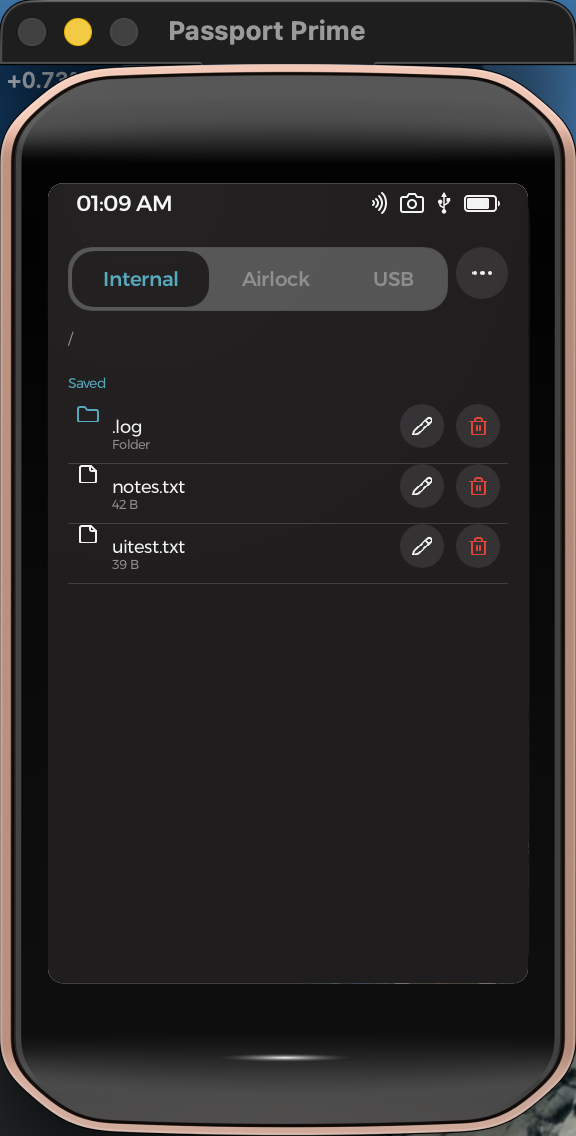
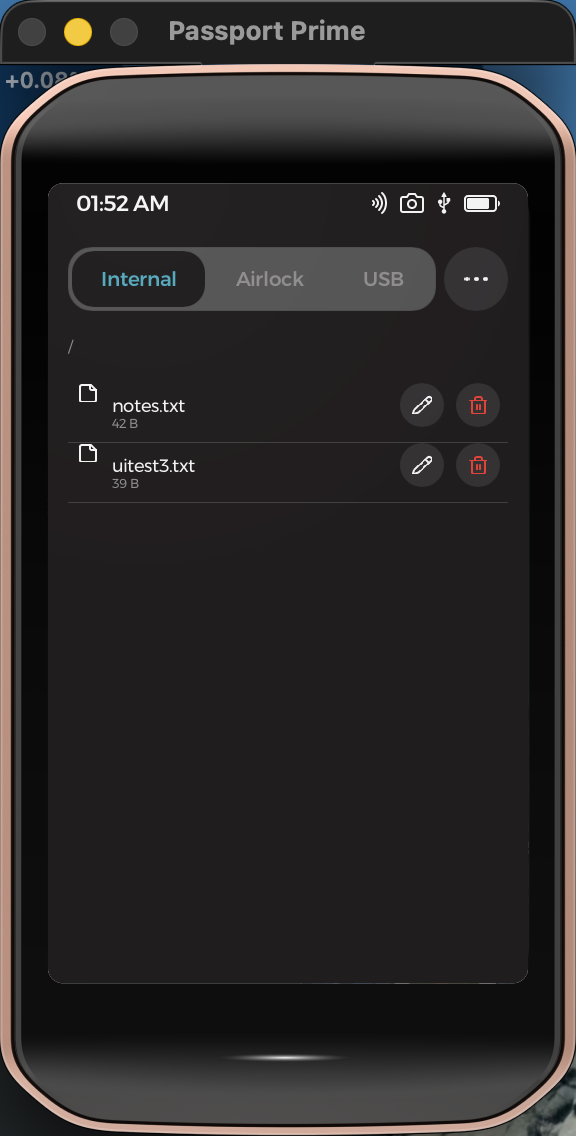
Editor UX: scrollable field, keyboard-aware sizing, Save dismisses keyboard; hidden-files toggle; center kebab
Editor (replaces the SDK TextArea, which clips long content with no scroll):
- Custom EditorField = Flickable + builtin TextInput with cursor-following
  (textedit-base.slint pattern). Fills the screen when unfocused (no gap),
  scrolls long content (drag + cursor-follow), and shrinks when focused so it
  stays above the 396px on-screen keyboard (hard-coded; window never resizes and
  no keyboard-height API exists).
- Save calls editor-field.clear-focus() before save-file() so the keyboard
  closes (blur -> KeyOS hide_keyboard).

Browser:
- ••• menu gains "Show/hide hidden files": State.show_hidden toggles whether
  refresh() lists dot-prefixed entries (hidden by default).
- Kebab sized to the tabs' 64px natural height (md control 56 + 2x4 list padding)
  and centered so it matches the tab bar.

All six verified in the simulator via ../ui-automation. See NOTES.md.

diff --git a/src/main.rs b/src/main.rs
@@ -15,6 +15,7 @@ struct State {
     location: Location,
     path: String,             // current directory, always starts with '/'
     open_path: Option<String>, // full path of the file currently in the editor
+    show_hidden: bool,        // include dot-prefixed entries in the listing
 }
 
 fn app_main(cx: AppContext, ui: AppWindow) {
@@ -29,6 +30,7 @@ fn app_main(cx: AppContext, ui: AppWindow) {
         location: Location::User,
         path: "/".to_string(),
         open_path: None,
+        show_hidden: false,
     }));
 
     // Re-list the current directory and push it into the Browser global.
@@ -38,9 +40,9 @@ fn app_main(cx: AppContext, ui: AppWindow) {
         let ui_weak = ui_weak.clone();
         Rc::new(move || {
             let Some(ui) = ui_weak.upgrade() else { return };
-            let (loc, path) = {
+            let (loc, path, show_hidden) = {
                 let s = state.borrow();
-                (s.location, s.path.clone())
+                (s.location, s.path.clone(), s.show_hidden)
             };
             let browser = ui.global::<Browser>();
 
@@ -51,6 +53,9 @@ fn app_main(cx: AppContext, ui: AppWindow) {
                     match dir.next_entry() {
                         Ok(Some(entry)) => {
                             if entry.name == "." || entry.name == ".." {
+                                continue;
+                            }
+                            if !show_hidden && entry.name.starts_with('.') {
                                 continue;
                             }
                             let info = if entry.is_dir {
@@ -106,6 +111,24 @@ fn app_main(cx: AppContext, ui: AppWindow) {
                 let mut s = state.borrow_mut();
                 s.location = location_for(idx);
                 s.path = "/".to_string();
+            }
+            refresh();
+        });
+    }
+
+    // Toggle showing dot-prefixed (hidden) files/folders.
+    {
+        let state = state.clone();
+        let ui_weak = ui_weak.clone();
+        let refresh = refresh.clone();
+        callbacks.on_toggle_hidden(move || {
+            let now = {
+                let mut s = state.borrow_mut();
+                s.show_hidden = !s.show_hidden;
+                s.show_hidden
+            };
+            if let Some(ui) = ui_weak.upgrade() {
+                ui.global::<Ui>().set_show_hidden(now);
             }
             refresh();
         });